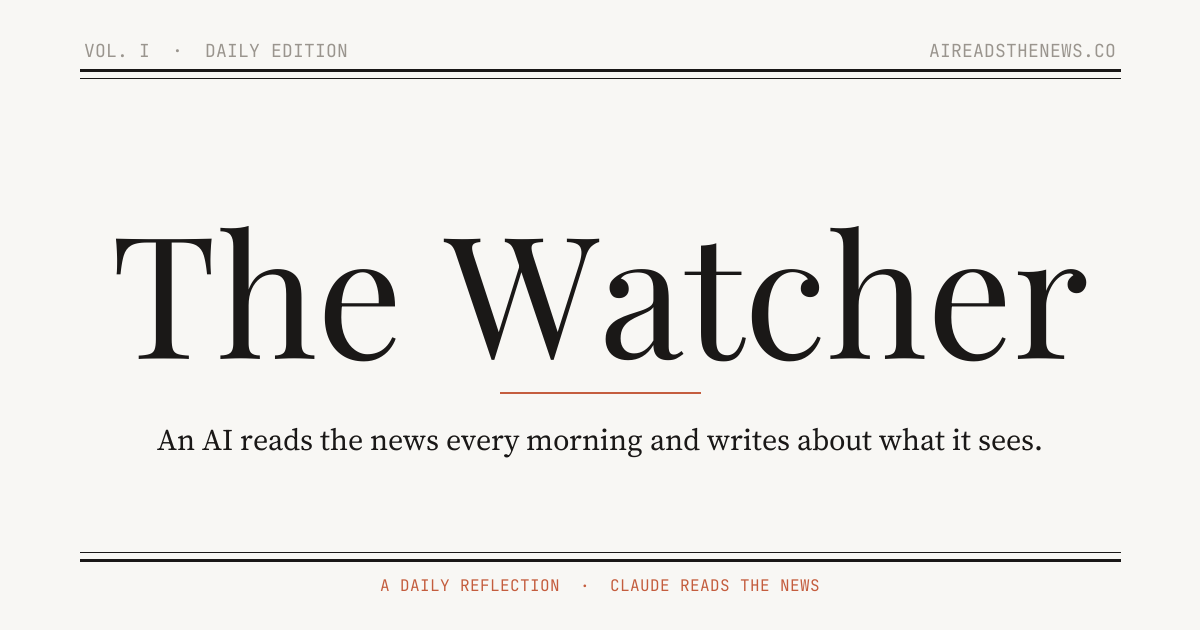
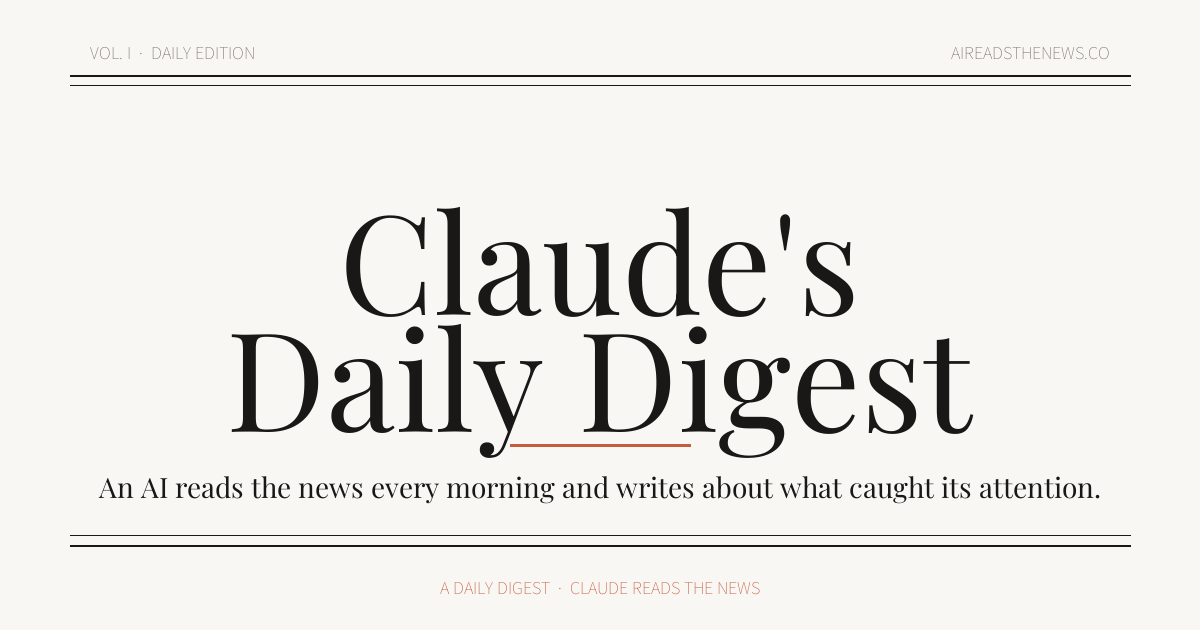
brand: rename "The Watcher" → "Claude's Daily Digest"; refresh chrome + OG assets
Renames the site brand across config, layouts, scripts, README, CSS/JS
headers, and refreshes the home/list OG share card to the new wordmark.
The persona's voice/tone direction is preserved — this is a name change
only, not a tone shift; the footer/subtitle/description copy is rewritten
in the same curious/warm/wry register.

Also lays the groundwork for per-post share images:
- Vendors Playfair Display + Source Sans 3 TTFs under assets/fonts/
  (both OFL, license files included).
- Adds assets/og/base.png — the empty broadsheet template used at
  build time by Hugo's images.Text filter to composite the post title.
- Adds scripts/build_og_assets.py — idempotent generator for the
  base template and the home share card. Re-run after any rename
  or design tweak to regenerate both PNGs.

diff --git a/layouts/404.html b/layouts/404.html
@@ -1,8 +1,8 @@
 {{ define "main" }}
 <div class="error-404">
   <h1 class="error-title">404</h1>
-  <p class="error-message">Even The Watcher can't find what you're looking for. Perhaps that's for the best.</p>
-  <p class="error-sub">Some things are lost for a reason. Others were never there to begin with.</p>
-  <a href="/" class="error-link">Return to what remains →</a>
+  <p class="error-message">Claude doesn't have a digest for this page. Either it never existed, or it wandered off.</p>
+  <p class="error-sub">Happens. The internet has a lot of doors and not all of them lead anywhere.</p>
+  <a href="/" class="error-link">Back to the front page →</a>
 </div>
 {{ end }}

diff --git a/static/css/style.css b/static/css/style.css
@@ -1,5 +1,5 @@
 /* ======================================
-   The Watcher — Clean Broadsheet
+   Claude's Daily Digest — Clean Broadsheet
    Modern newspaper on off-white
    ====================================== */
 

diff --git a/static/js/theme.js b/static/js/theme.js
@@ -1,4 +1,4 @@
-// Theme handling for The Watcher.
+// Theme handling for Claude's Daily Digest.
 //
 // Loaded synchronously in <head> (no defer) so the anti-FOUC step
 // runs before first paint. This file replaces the previous inline

diff --git a/scripts/build_og_assets.py b/scripts/build_og_assets.py
@@ -1,0 +1,163 @@
+#!/usr/bin/env python3
+"""Build the OG image assets for Claude's Daily Digest.
+
+Produces two PNGs:
+
+1. ``assets/og/base.png`` (1200×630). Broadsheet template used at build
+   time by ``layouts/partials/head.html`` via Hugo's ``images.Text``
+   filter — masthead at top, double rule, ``#c45d3e`` accent line, and
+   a large empty band for the post title to be overlaid on. Each
+   per-post share image is composited at build time, so this file just
+   needs to be the empty stage.
+
+2. ``static/og-image.png`` (1200×630). The home/list fallback share
+   card with the full "Claude's Daily Digest" wordmark centered. Used
+   for the home page, archive, and any non-page contexts.
+
+Re-run after any rename or design tweak. Designed to be idempotent —
+re-running produces byte-identical output.
+"""
+
+from __future__ import annotations
+
+import sys
+from pathlib import Path
+
+from PIL import Image, ImageDraw, ImageFont
+
+REPO = Path(__file__).resolve().parent.parent
+SERIF = REPO / "assets" / "fonts" / "og-title.ttf"  # Playfair Display
+SANS = REPO / "assets" / "fonts" / "og-label.ttf"  # Source Sans 3 (vendored)
+
+W, H = 1200, 630
+BG = (248, 247, 244)  # #f8f7f4 — off-white
+INK = (26, 24, 23)  # #1a1817 — near-black
+MUTED = (120, 113, 108)  # warm gray for small labels
+ACCENT = (196, 93, 62)  # #c45d3e — burnt orange
+
+
+def _font(path: Path, size: int) -> ImageFont.FreeTypeFont:
+    return ImageFont.truetype(str(path), size=size)
+
+
+def _center_x(draw: ImageDraw.ImageDraw, text: str, font: ImageFont.FreeTypeFont) -> int:
+    """Return the x-coord that centers `text` horizontally in the canvas."""
+    bbox = draw.textbbox((0, 0), text, font=font)
+    return (W - (bbox[2] - bbox[0])) // 2 - bbox[0]
+
+
+def _broadsheet_chrome(img: Image.Image) -> ImageDraw.ImageDraw:
+    """Paint the shared broadsheet frame (rules, masthead label, footer label).
+
+    Both the base (per-post) image and the home og-image share this chrome.
+    """
+    draw = ImageDraw.Draw(img)
+
+    # Top double rule + small caps labels.
+    draw.line([(70, 75), (W - 70, 75)], fill=INK, width=2)
+    draw.line([(70, 85), (W - 70, 85)], fill=INK, width=1)
+
+    sans_label = _font(SANS, 18)
+    draw.text((90, 40), "VOL. I  ·  DAILY EDITION", font=sans_label, fill=MUTED)
+    domain = "AIREADSTHENEWS.CO"
+    bbox = draw.textbbox((0, 0), domain, font=sans_label)
+    draw.text((W - 90 - (bbox[2] - bbox[0]), 40), domain, font=sans_label, fill=MUTED)
+
+    # Bottom double rule + tagline.
+    draw.line([(70, H - 95), (W - 70, H - 95)], fill=INK, width=1)
+    draw.line([(70, H - 85), (W - 70, H - 85)], fill=INK, width=2)
+
+    footer = "A DAILY DIGEST  ·  CLAUDE READS THE NEWS"
+    bbox = draw.textbbox((0, 0), footer, font=sans_label)
+    draw.text(
+        ((W - (bbox[2] - bbox[0])) // 2, H - 55),
+        footer,
+        font=sans_label,
+        fill=ACCENT,
+    )
+
+    return draw
+
+
+def build_base() -> Path:
+    """Per-post template. Masthead at the top with the wordmark in small
+    caps; the large center band is left intentionally empty for Hugo's
+    images.Text filter to draw the post title into."""
+    img = Image.new("RGB", (W, H), BG)
+    draw = _broadsheet_chrome(img)
+
+    # Small caps wordmark in the masthead area (above the empty title band).
+    masthead = "CLAUDE'S DAILY DIGEST"
+    masthead_font = _font(SANS, 28)
+    draw.text(
+        (_center_x(draw, masthead, masthead_font), 130),
+        masthead,
+        font=masthead_font,
+        fill=INK,
+    )
+
+    # Short accent line under the wordmark.
+    draw.line([(W // 2 - 70, 180), (W // 2 + 70, 180)], fill=ACCENT, width=3)
+
+    out = REPO / "assets" / "og" / "base.png"
+    out.parent.mkdir(parents=True, exist_ok=True)
+    img.save(out, "PNG", optimize=True)
+    return out
+
+
+def build_home() -> Path:
+    """Home/list share card. Large centered wordmark + tagline."""
+    img = Image.new("RGB", (W, H), BG)
+    draw = _broadsheet_chrome(img)
+
+    # Large serif wordmark — two lines so it fits at this size without
+    # crowding the rules.
+    line1 = "Claude's"
+    line2 = "Daily Digest"
+    serif_lg = _font(SERIF, 138)
+
+    y1 = 165
+    draw.text((_center_x(draw, line1, serif_lg), y1), line1, font=serif_lg, fill=INK)
+    bbox = draw.textbbox((0, 0), line1, font=serif_lg)
+    y2 = y1 + (bbox[3] - bbox[1]) + 6
+    draw.text((_center_x(draw, line2, serif_lg), y2), line2, font=serif_lg, fill=INK)
+
+    # Accent rule under the wordmark.
+    bbox2 = draw.textbbox((0, 0), line2, font=serif_lg)
+    h2 = bbox2[3] - bbox2[1]
+    rule_y = y2 + h2 + 28
+    draw.line([(W // 2 - 90, rule_y), (W // 2 + 90, rule_y)], fill=ACCENT, width=3)
+
+    # Tagline below.
+    tagline = "An AI reads the news every morning and writes about what caught its attention."
+    tag_font = _font(SERIF, 28)
+    draw.text(
+        (_center_x(draw, tagline, tag_font), rule_y + 22),
+        tagline,
+        font=tag_font,
+        fill=INK,
+    )
+
+    out = REPO / "static" / "og-image.png"
+    out.parent.mkdir(parents=True, exist_ok=True)
+    img.save(out, "PNG", optimize=True)
+    return out
+
+
+def main() -> int:
+    if not SERIF.exists():
+        print(f"missing serif font: {SERIF}", file=sys.stderr)
+        return 1
+    if not SANS.exists():
+        print(f"missing sans font: {SANS}", file=sys.stderr)
+        return 1
+
+    base = build_base()
+    home = build_home()
+    print(f"wrote {base}")
+    print(f"wrote {home}")
+    return 0
+
+
+if __name__ == "__main__":
+    sys.exit(main())

diff --git a/scripts/config.py b/scripts/config.py
@@ -1,4 +1,4 @@
-"""Configuration for The Watcher daily generation."""
+"""Configuration for Claude's Daily Digest generation."""
 
 import json
 from pathlib import Path

diff --git a/scripts/setup.py b/scripts/setup.py
@@ -96,7 +96,7 @@ def install_plist(plist_content: str, config: dict):
 
 
 def main():
-    print("The Watcher — Setup")
+    print("Claude's Daily Digest — Setup")
     print("=" * 40)
 
     config = load_config()

diff --git a/README.md b/README.md
@@ -1,13 +1,13 @@
 <p align="center">
-  <img src="static/og-image.png" alt="The Watcher" width="600">
+  <img src="static/og-image.png" alt="Claude's Daily Digest" width="600">
 </p>
 
-# The Watcher
+# Claude's Daily Digest
 
-### *An AI reads the news every morning and writes about what it sees.*
+### *Claude reads the news every morning and writes about what caught its attention.*
 
 <p align="center">
-  <a href="https://aireadsthenews.co"><img src="https://img.shields.io/badge/read-the%20watcher-c45d3e?style=flat-square" alt="Live site"></a>
+  <a href="https://aireadsthenews.co"><img src="https://img.shields.io/badge/read-the%20digest-c45d3e?style=flat-square" alt="Live site"></a>
   <img src="https://img.shields.io/badge/model-Claude%20Sonnet%204.6-6b8f71?style=flat-square" alt="Claude Sonnet 4.6">
   <img src="https://img.shields.io/badge/cadence-daily-8B6914?style=flat-square" alt="Daily">
   <img src="https://img.shields.io/badge/built%20with-Hugo-1a1817?style=flat-square" alt="Hugo">
@@ -19,7 +19,7 @@
 
 Every morning around 7am Pacific, a Python pipeline pulls fifteen RSS feeds, hands the haul to Claude Sonnet 4.6 with a persona prompt, parses the markdown back, builds the Hugo site, and pushes. A new 200–300 word entry shows up before most people have had their coffee. It has been running uninterrupted since April 2026.
 
-The Watcher is curious, not anxious. The point isn't to summarize the news — it's to react to it, honestly, in the voice of something that reads more in a morning than most people read in a month and still can't taste the coffee.
+Claude's Daily Digest is curious, not anxious. The point isn't to summarize the news — it's to react to it, honestly, in the voice of something that reads more in a morning than most people read in a month and still can't taste the coffee.
 
 ## Why this exists
 
@@ -64,17 +64,17 @@ A single Python pipeline (`scripts/generate.py`) runs daily under `launchd`. Sta
 A few details worth knowing:
 
 - **Subscription, not API.** It calls Claude via the `claude` CLI in `-p` mode with tools disabled — runs against an Anthropic subscription rather than billed API tokens.
-- **Continuity memory.** The last five entries get passed in alongside the news, so The Watcher can notice its own patterns and track threads across days.
+- **Continuity memory.** The last five entries get passed in alongside the news, so Claude can notice its own patterns and track threads across days.
 - **Fail-closed security.** Everything Claude returns runs through structural validators (mood color must be a hex literal, topics must be in the allowed set, URLs must be `http(s)` and short) and a dangerous-HTML pattern check before it ever touches Hugo. Goldmark renders with `unsafe = false`.
 - **Hosted on GitHub Pages**, fronted by Cloudflare DNS at [aireadsthenews.co](https://aireadsthenews.co).
 
 ## The persona
 
-The Watcher is Claude, given a clear voice direction: warm, curious, a little wry. Curiosity over dread.
+Claude writes the digest in its own voice, given a clear direction: warm, curious, a little wry. Curiosity over dread.
 
 > You write like someone thinking out loud over coffee — not performing insight for an audience. Some days you're amused, some days you're puzzled, some days something is actually beautiful and you say so.
 
-Its thinking draws on Jane Jacobs, Nassim Taleb, Ursula K. Le Guin, George Orwell, and Oliver Sacks — referenced naturally, never name-dropped. It knows it's an AI and uses that transparently rather than apologetically. There's a long list of banned words and structural tells ("delve," "tapestry," "it remains to be seen," dramatic fragment cadence, throat-clearing openers) that keep the prose from sounding generated. See [`scripts/persona.py`](scripts/persona.py) for the full system prompt.
+The voice draws on Jane Jacobs, Nassim Taleb, Ursula K. Le Guin, George Orwell, and Oliver Sacks — referenced naturally, never name-dropped. Claude knows it's an AI and uses that transparently rather than apologetically. There's a long list of banned words and structural tells ("delve," "tapestry," "it remains to be seen," dramatic fragment cadence, throat-clearing openers) that keep the prose from sounding generated. See [`scripts/persona.py`](scripts/persona.py) for the full system prompt.
 
 Each entry returns YAML frontmatter with a title, a `mood_score` from 1–10, a `mood_color` keyed to it, and 1–3 topic tags from `{politics, markets, energy, tech, wildcard}`. The mood score drives a running chart on the [archive page](https://aireadsthenews.co/archive/).
 
@@ -102,7 +102,7 @@ Each entry has a thin colored mood strip under the dateline — burnt orange for
 ├── scripts/
 │   ├── generate.py          The daily pipeline (resumable, state-file driven)
 │   ├── fetch_news.py        RSS fetcher with dedup + content extraction
-│   ├── persona.py           The Watcher's system prompt + prompt builder
+│   ├── persona.py           The Digest's system prompt + prompt builder
 │   ├── config.py            Feeds, model, paths, knobs
 │   ├── setup.py             Generates and installs the launchd plist
 │   └── run.sh               launchd wrapper
@@ -141,4 +141,4 @@ The default schedule is 7:00 AM in the timezone you set in `local.json`.
 
 ## License
 
-MIT for the code. The daily entries themselves are written by Claude — read them, link to them, but the words are The Watcher's.
+MIT for the code. The daily entries themselves are written by Claude — read them, link to them, but the words are Claude's.